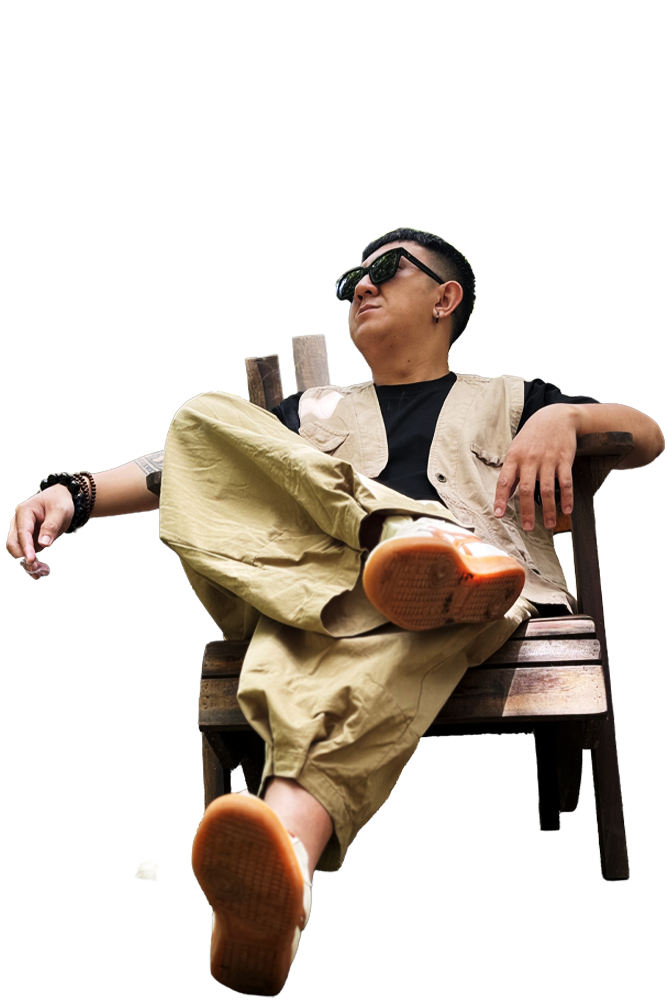
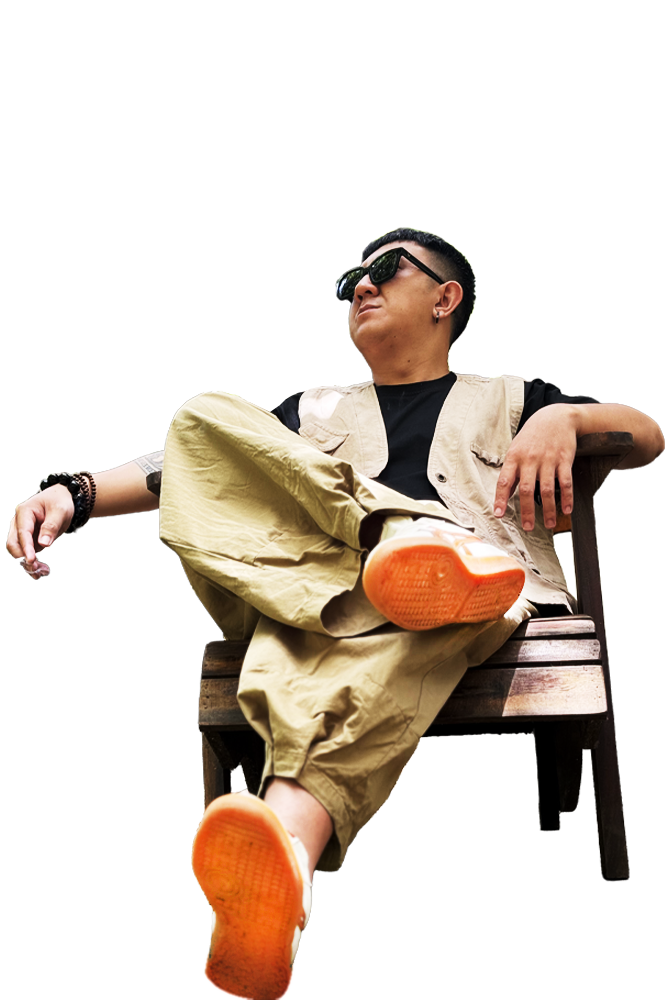
Phase 4 — Publish.command + deploy.sh auto-commit + Mac-only workflow doc

Changed region(s): [[0.2699, 0.775, 0.4798, 1.0], [0.5097, 0.527, 0.8396, 0.651], [0.3598, 0.31, 0.5097, 0.434]]

diff --git a/_WORKFLOW.md b/_WORKFLOW.md
@@ -1,28 +1,41 @@
 # Workflow viết bài cho imcenix.com
 
-> File này chỉ là hướng dẫn cá nhân, không xuất hiện trên website.
+> Mac-only workflow. Phone editing có thể setup sau khi mua Obsidian Sync
+> ($4/tháng) hoặc dùng Apple Notes làm bản nháp rồi paste vào Obsidian Mac.
 
-## Cài Obsidian Mobile (làm 1 lần)
+## Setup ban đầu
 
-1. App Store → cài **Obsidian**
-2. Mở app → **Use my existing vault** → chọn **iCloud**
-3. Sẽ thấy vault **"Cenix Profile"** xuất hiện → tap để mở
-4. Done. Vault giờ đã sync với Mac.
+**1. Project path:**
 
-**Lưu ý:** project phải nằm trong folder `iCloud Drive/Obsidian/`
-(path đầy đủ: `~/Library/Mobile Documents/iCloud~md~obsidian/Documents/Cenix Profile/`)
-để Obsidian iOS auto-detect được.
+```
+~/Documents/Cenix_Projects/Cenix/Cenix x Claude/Cenix Profile/
+```
+
+**2. Terminal alias** (đã có trong `~/.zshrc`, nếu chưa thì thêm vào):
+
+```bash
+alias cenix='cd "$HOME/Documents/Cenix_Projects/Cenix/Cenix x Claude/Cenix Profile"'
+```
+
+Sau khi thêm: `source ~/.zshrc` để reload. Từ giờ gõ `cenix` là vào thẳng project.
+
+**3. Obsidian Mac:**
+
+- Mở Obsidian.app → Open vault → Open folder as vault
+- Navigate Files → Documents → Cenix_Projects → Cenix → Cenix x Claude → **Cenix Profile**
+- Open
 
 ## Cấu trúc folder vault
 
 ```
 Cenix Profile/
 ├─ _WORKFLOW.md           ← file này
+├─ Publish.command        ← double-click để deploy
 ├─ .obsidian/
 │  └─ templates/          ← 4 template insert sẵn
 ├─ assets/
 │  ├─ blog/               ← TẠO POST MỚI Ở ĐÂY
-│  │  ├─ _template/       ← không sửa, dùng để tham khảo
+│  │  ├─ _template/       ← không sửa, để tham khảo
 │  │  └─ 2026-04-bai-cua-toi/
 │  │     ├─ post.md
 │  │     └─ thumbnail.jpg
@@ -37,11 +50,11 @@ Cenix Profile/
 
 ---
 
-## Tạo bài Blog mới (từ phone HOẶC Mac)
+## Tạo bài Blog mới
 
 ### Bước 1 — Tạo folder cho post
 
-Trong Obsidian, **right-click** (mobile: long-press) folder `assets/blog/` → **New folder** → đặt tên theo format:
+Trong Obsidian Mac, right-click folder `assets/blog/` → **New folder** → đặt tên theo format:
 
 ```
 YYYY-MM-slug-bai
@@ -55,7 +68,7 @@ Vào folder vừa tạo → **New note** → đặt tên **`post`** (chỉ "post
 
 ### Bước 3 — Insert template
 
-Mở file `post.md` → command palette (Cmd+P trên Mac, hoặc icon "command" mobile) → gõ **"Insert template"** → chọn:
+Mở file `post.md` → **Cmd+P** (command palette) → gõ **"Insert template"** → chọn:
 
 - **Blog Article** — bài viết text dài
 - **Blog V-Log** — embed video YouTube
@@ -65,21 +78,22 @@ Template tự fill date hôm nay. Anh sửa **title**, **slug**, **excerpt**.
 
 ### Bước 4 — Thumbnail
 
-- **Mac:** drag-drop file ảnh vào folder post trong Obsidian
-- **Phone:** chụp/chọn ảnh từ Photos → Share → Save to Files → vào folder post
+Drag file ảnh từ Desktop/Finder vào folder post trong Obsidian sidebar. Đặt tên là **`thumbnail.jpg`** (hoặc `.png`).
 
-Đặt tên ảnh là **`thumbnail.jpg`** (hoặc `.png`).
+### Bước 5 — Publish
 
-### Bước 5 — Publish (chỉ trên Mac)
+**Cách A — Double-click Publish.command:**
+
+Trong Finder hoặc Obsidian, double-click file `Publish.command` ở root project.
+
+**Cách B — Terminal:**
 
 ```bash
-cenix                           # alias đã setup
-git add .
-git commit -m "new post: ..."
-./deploy.sh
+cenix
+./Publish.command
 ```
 
-Site live trong ~30 giây ở imcenix.com.
+Site update tại imcenix.com trong ~60 giây.
 
 ---
 
@@ -89,7 +103,7 @@ Tương tự bước Blog nhưng:
 
 - Folder: `assets/portfolio/XX-ten-project/` (XX = số thứ tự)
 - File: `project.md`
-- Template: **Portfolio Project**
+- Template: **Portfolio Project** (Cmd+P → Insert template)
 - Thumbnail: `thumbnail.png` (tỷ lệ 1.28:1, chuẩn Behance)
 - Long mockup: `images/long-mockup.png`
 
@@ -103,19 +117,20 @@ Tương tự bước Blog nhưng:
 - **Experience.md** — danh sách công ty (mỗi h2 = 1 công ty)
 - **Projects.md** — side projects (mỗi h2 = 1 project)
 
-Edit trực tiếp các file này. Đẩy lên bằng `./deploy.sh` như trên.
+Edit trực tiếp các file. Publish như trên.
 
 ---
 
 ## Quay xe (Git rollback)
 
-Nếu lỡ xoá hay sửa hỏng cái gì:
+Mỗi lần `./Publish.command` chạy, git tự commit snapshot. Nếu lỡ xoá hay sửa hỏng:
 
 ```bash
-git log --oneline                # xem history
+cenix
+git log --oneline                # xem history các deploy
 git checkout abc1234 -- assets/  # restore folder assets từ commit cũ
-# HOẶC
-git reset --hard abc1234         # quay HẲN về snapshot cũ (cẩn thận!)
+# HOẶC quay HẲN về snapshot cũ:
+git reset --hard abc1234         # cẩn thận! mất commits sau đó
 ```
 
 ---
@@ -128,3 +143,13 @@ Slug là URL bài viết / project. Phải:
 - Dùng dấu gạch ngang `-`, không dùng `_` hay space
 - Không dấu tiếng Việt: `hanh-trinh` ✓ không phải `hành-trình`
 - Ngắn gọn 3-6 từ
+
+---
+
+## Sau này nếu muốn viết trên phone
+
+3 lựa chọn:
+
+1. **Obsidian Sync** ($4/tháng) — official, hoàn hảo, không phải fight iCloud
+2. **GitHub + Working Copy** (~$20 one-time iOS app) — git-based sync, advanced
+3. **Self-hosted CMS** — em build sau khi anh cần thiết